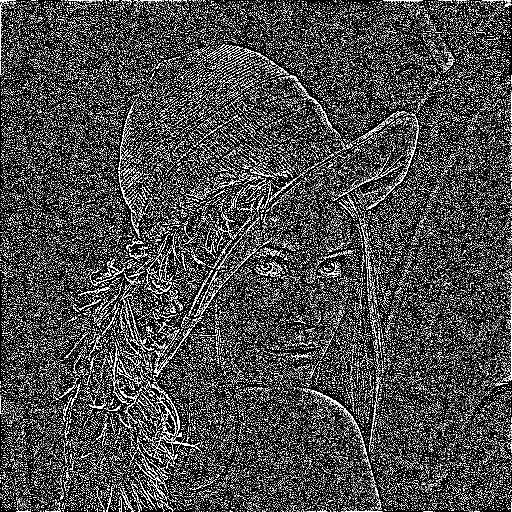
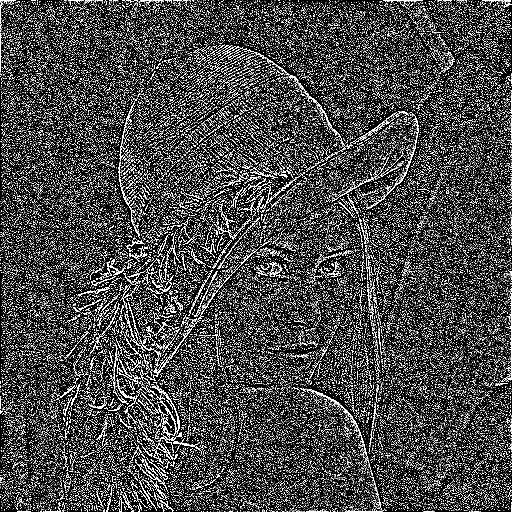
Deconvolution gaussienne v2

diff --git a/TP6/main.m b/TP6/main.m
@@ -46,19 +46,25 @@ imshow(moduleSwappedImg)
 imwrite(moduleSwappedImg, "output/module_swapping_in_grey_image.jpg")
 
 I = double(imread('input/flowers.bmp'))/255;
+output_dir = 'output/';
+
+%figure('Position',[startx,starty,width,height]);plot(0:20,sin(0:20));
+
 % Comparison of gaussian & Wiener filters for different levels of noise
 disp('Deconvolution sans bruit')
 sigma_conv = [1:10];
 for s = [1] %sigma_conv
   I_hat = gaussianFilter(I, s, 0);
-  title_ = ['Deconvolution avec sigma= ' num2str(s)];
-  figure; title(title_); imshow(I_hat);
+  title_ = [output_dir "deconvolution_sigma_" num2str(s) ".png"];
+  % figure; title(title_); imshow(I_hat);
+  imwrite(I_hat, title_);
 end
 
+noise_level = 0.01;
 disp('Deconvolution avec bruit')
-I_hat_noisy = gaussianFilter(I, 3.5, 0.01);
-title_ = ['Deconvolution avec sigma= ' num2str(s)];
-figure; title(title_); imshow(I_hat);
+I_hat_noisy = gaussianFilter(I, 3.5, noise_level);
+title_ = [output_dir "deconvolution_sigma_" num2str(s) "_noise_" num2str(noise_level) ".png"];
+figure; title(title_); imwrite(I_hat_noisy, title_);
 
 disp('Filtre Wiener')
 sigma_noise = [0:0.1:0.3];
@@ -66,8 +72,8 @@ for s_n = [0.1] %sigma_noise
     for s_c = [3.5] %sigma_conv
     	I_wiener = wienerFilter(I, s_c, s_n, 0.5);
 	figure;
-	title_ = ['Deconvolution, sigma_g = ' num2str(s_c) ' noise = ' num2str(s_n)];
-	imshow(I_wiener);
+	title_ = [output_dir "wiener_sigma_g_" num2str(s_c) "_noise_" num2str(s_n) ".png"];
+	imshow(I_wiener); imwrite(I_wiener, title_);
     end
 end
 
@@ -81,8 +87,11 @@ for k = [1:3]
   I_scaled(:, :, k) = (I(:, :, k) - min_)/(max_ - min_);
 end
 
-figure; title('Feature scaled'); imshow(I_scaled);
-
+title_= [output_dir "feature_scaled.png"];
+imwrite(I_scaled, title_);
+pkg load image;
+imhist(I); print([output_dir "hist_orig.png"]);
+imhist(I_scaled);print([output_dir "hist_scaled.png"]);
 % Boost de la saturation
 saturationBoost(I_scaled, 1.5);
 
@@ -93,5 +102,3 @@ saturationBoost(I_scaled, 0.5);
 
 % Filtre median
 w = 3;
-pause
-

diff --git a/TP6/gaussianFilter.m b/TP6/gaussianFilter.m
@@ -1,4 +1,4 @@
-function I_convolved = gaussianFilter(I, sigma_conv, sigma_noise)
+function I_deconvolved = gaussianFilter(I, sigma_conv, sigma_noise)
   sigma_2=sigma_conv*sigma_conv;
   pi_2=pi*pi;
   DFT2d_I=fft2(I);
@@ -23,12 +23,16 @@ function I_convolved = gaussianFilter(I, sigma_conv, sigma_noise)
 
   DFT2d_I_convolved=DFT2d_I.*repmat(dft_gauss_kernel,[1,1,nb_color_channels]);
 
-  DFT2d_I_convolved += randn(size(I)) * sigma_noise;
-
-  DFT2d_I_deconvolved = DFT2d_I_convolved ./ repmat(dft_gauss_kernel, [1,1,nb_color_channels]);
-  
   I_convolved=ifft2(DFT2d_I_convolved);
   I_convolved=real(I_convolved);
+
+  DFT2d_I_hat = fft2(DFT2d_I_convolved);
+  
+  DFT2d_I_hat += randn(size(I)) * sigma_noise;
+
+  DFT2d_I_deconvolved = DFT2d_I_hat ./ repmat(fft2(dft_gauss_kernel), [1,1,nb_color_channels]);
+
+  I_deconvolved = real(ifft2(DFT2d_I_deconvolved));
   % Due to rounding errors I_with_modulus_of_J can have very small
   % but non zero imaginary part. We want a real image for displaying.
 end

diff --git a/TP6/saturationBoost.m b/TP6/saturationBoost.m
@@ -1,12 +1,12 @@
 % Changes image saturation by given factor
 function saturationBoost(I, boost_factor)
 % Changement de l'espace de couleurs
-I_hsv = rgb2hsv(I);
+  I_hsv = rgb2hsv(I);
 % Boost de la saturation
-I_hsv(:, :, 2) = I_hsv(:, :, 2) * boost_factor;
-I_hsv(:, :, 2) =(I_hsv(:, :, 2) - min(min(I_hsv(:, :, 2)))) / (max(max(I_hsv(:, :, 2))) - min(min(I_hsv(:, :, 2))));
+  I_hsv(:, :, 2) = I_hsv(:, :, 2) * boost_factor;
+  I_hsv(:, :, 2) = (I_hsv(:, :, 2) - min(min(I_hsv(:, :, 2)))) / (max(max(I_hsv(:, :, 2))) - min(min(I_hsv(:, :, 2))));
 
-figure; title('Image with saturation boosted');
-imshow(hsv2rgb(I_hsv));
-
+  I_boosted = hsv2rgb(I_hsv);
+  figure; title_ = ["output/saturation_boosted_" num2str(boost_factor) ".png"];
+  imwrite(I_boosted, title_);
 end
